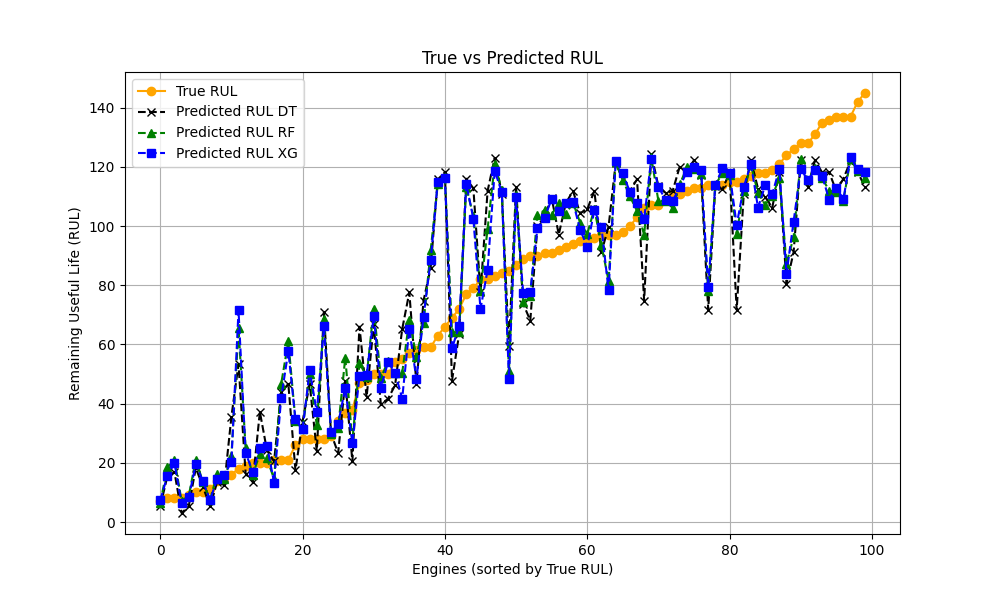
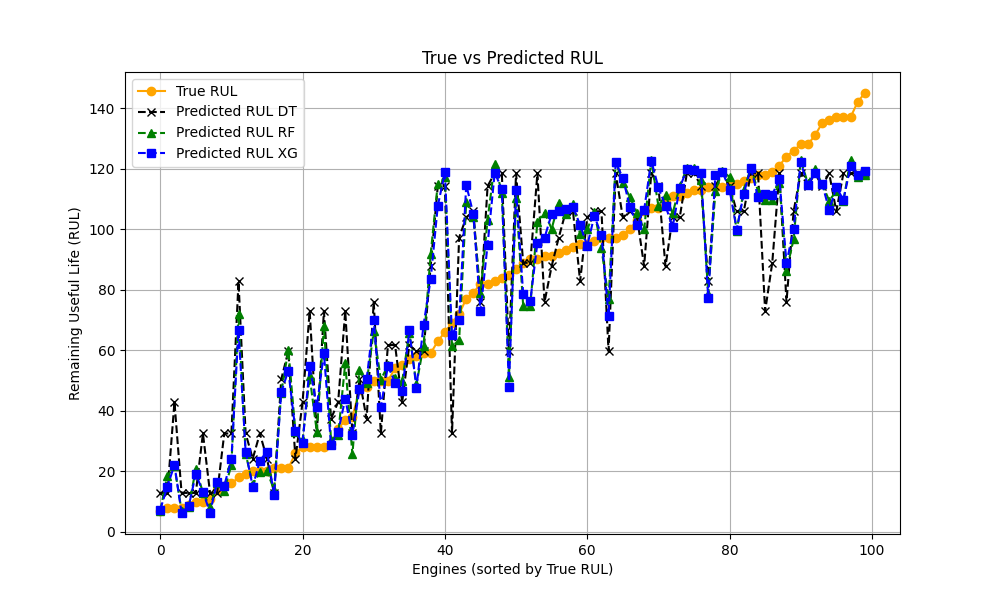
tuning aan gepast. de hyperparameters die gebruikt worden zijn nu de beste uit het tuning

diff --git a/Alle models.py b/Alle models.py
@@ -5,19 +5,14 @@ from sklearn.ensemble import RandomForestRegressor
 from sklearn.metrics import mean_squared_error, mean_absolute_error, r2_score
 from sklearn.model_selection import GridSearchCV
 from sklearn.model_selection import GridSearchCV, train_test_split
-
-
 from import_data import df_train, df_test
 import matplotlib.pyplot as plt
 import numpy as np
 import pandas as pd
 
-################
-
+####################
 # Data voorbereiding
-
-################
-
+####################
 
 df_train['max_cycle'] = df_train.groupby('engine')['cycle'].transform('max')
 df_train['RUL'] = df_train['max_cycle'] - df_train['cycle']
@@ -40,41 +35,46 @@ X_train = df_train[feature_cols]
 y_train = df_train['RUL']
 
 
+###############
+# Model tunning
+###############
 
-
-# Split into training and validation sets
 X_train, X_val, y_train, y_val = train_test_split(X_train, y_train, test_size=0.2, random_state=42)
-
-# --- Hyperparameter tuning ---
-
+tuning = False 
+if tuning == True:
 # Decision Tree
-dt_params = {'max_depth': [3, 5, 10, None]}
-dt_grid = GridSearchCV(DecisionTreeRegressor(), dt_params, cv=3, scoring='neg_mean_squared_error')
-dt_grid.fit(X_train, y_train)
-best_dt = dt_grid.best_estimator_
+    dt_params = {'max_depth': [3, 5, 10], 'min_samples_leaf': [1, 5, 10], 'max_leaf_nodes': [10, 20]}
+    dt_grid = GridSearchCV(DecisionTreeRegressor(), dt_params, cv=3, scoring='neg_mean_squared_error')
+    dt_grid.fit(X_train, y_train)
+    best_dt = dt_grid.best_estimator_
 
 # Random Forest
-rf_params = {'n_estimators': [50, 100], 'max_depth': [5, 10, None]}
-rf_grid = GridSearchCV(RandomForestRegressor(), rf_params, cv=3, scoring='neg_mean_squared_error')
-rf_grid.fit(X_train, y_train)
-best_rf = rf_grid.best_estimator_
+    rf_params = {'n_estimators': [50, 100], 'max_depth': [5, 10], 'min_samples_leaf': [1, 5, 10]}
+    rf_grid = GridSearchCV(RandomForestRegressor(), rf_params, cv=3, scoring='neg_mean_squared_error')
+    rf_grid.fit(X_train, y_train)
+    best_rf = rf_grid.best_estimator_
 
 # XGBoost
-xgb_params = {'n_estimators': [50, 100], 'max_depth': [3, 5, 10]}
-xgb_grid = GridSearchCV(XGBRegressor(), xgb_params, cv=3, scoring='neg_mean_squared_error')
-xgb_grid.fit(X_train, y_train)
-best_xgb = xgb_grid.best_estimator_
+    xgb_params = {'n_estimators': [50, 100], 'max_depth': [3, 6, 10], 'learning_rate': [0.01, 0.1, 0.2]}
+    xgb_grid = GridSearchCV(XGBRegressor(), xgb_params, cv=3, scoring='neg_mean_squared_error')
+    xgb_grid.fit(X_train, y_train)
+    best_xgb = xgb_grid.best_estimator_
 
-# --- Evaluation on validation set ---
-for model, name in zip([best_dt, best_rf, best_xgb], ['DT', 'RF', 'XG']):
-    y_pred = model.predict(X_val)
-    print(f"{name} - RMSE: {np.sqrt(mean_squared_error(y_val, y_pred)):.2f}, "
-          f"MAE: {mean_absolute_error(y_val, y_pred):.2f}, "
-          f"R²: {r2_score(y_val, y_pred):.2f}")
-    # hier de beste hyperparameters printen
+# Evaluation with validation data 
+    tuned_params = ['max_depth', 'n_estimators', 'max_leaf_nodes', 'min_samples_leaf', 'learning_rate']
+    #read the best hyperparameters from the grid search
+    for model, name in zip([best_dt, best_rf, best_xgb], ['DT', 'RF', 'XG']):
+        y_pred = model.predict(X_val)
+        params = model.get_params()
+        filtered_params = {k: v for k, v in params.items() if k in tuned_params}
+        print(f"{name} - Parameters: {filtered_params}")
+        print(f"{name} - RMSE: {np.sqrt(mean_squared_error(y_val, y_pred)):.2f}, "
+            f"MAE: {mean_absolute_error(y_val, y_pred):.2f}, "
+            f"R²: {r2_score(y_val, y_pred):.2f}")
 
-
-
+#####################
+# Running the models
+#####################
 
 true_rul = pd.read_csv(
     'CMAPSSData/RUL_FD001.txt',
@@ -85,37 +85,24 @@ df_test_last['RUL'] = true_rul.values.flatten()
 X_test = df_test_last[feature_cols]
 y_test = df_test_last['RUL']
 
-############
-
-# Models
-
-############
-
-# dit deel kan weg 
-
-# Single Decision Tree Regressor
-dt = DecisionTreeRegressor(max_depth=10, random_state=42)
+# Single Decision Tree Regressor, Random Forest Regressor, and XGBoost Regressor
+# take the best hyperparameters from the tuning step
+dt = DecisionTreeRegressor(max_depth=10, max_leaf_nodes=20, min_samples_leaf=1)
 dt.fit(X_train, y_train)
-
-
-# Radnom Forest Regressor
-rf = RandomForestRegressor(n_estimators=100, max_depth=10, random_state=42, min_samples_leaf=5, n_jobs = -1)
+rf = RandomForestRegressor(n_estimators=100, max_depth=10, min_samples_leaf=5, n_jobs = -1)
 rf.fit(X_train, y_train)
-
-# XGBoost Regressor
-xg = XGBRegressor(objective='reg:squarederror', n_estimators=50, learning_rate=0.1, max_depth=6,random_state=42)
+xg = XGBRegressor(objective='reg:squarederror', n_estimators=50, learning_rate=0.1, max_depth=6)
 xg_fit = xg.fit(X_train, y_train)
 
-# hier voor predict best_dt etc zetten om de beste hyperparameters te gebruiken
-dt_pred = dt.predict(X_test)
-rf_pred = rf.predict(X_test)
-xg_pred = xg_fit.predict(X_test)
+#add a bias if you want to ensure conservative predictions
+bias = 0.0
+dt_pred = dt.predict(X_test)+ bias
+rf_pred = rf.predict(X_test) +bias 
+xg_pred = xg_fit.predict(X_test) +bias
 
-###############
-
+#####################
 # Evaluatie modellen
-
-###############
+#####################
 rmse_dt = np.sqrt(mean_squared_error(y_test, dt_pred))
 mae_dt = mean_absolute_error(y_test, dt_pred)
 r2_dt = r2_score(y_test, dt_pred)
@@ -150,16 +137,3 @@ plt.legend()
 plt.grid()
 plt.savefig('comb_rul_prediction_plot.png')
 plt.show()
-
-param_grid = {
-    'max_depth': [3, 6, 10],
-    'n_estimators': [50, 100, 200],
-    'learning_rate': [0.01, 0.1, 0.2]
-}
-grid_search = GridSearchCV(XGBRegressor(), param_grid, cv=3, scoring='neg_mean_squared_error')
-grid_search.fit(X_train, y_train)
-# Print the best hyperparameters found by GridSearchCV
-print("Best hyperparameters found: ", grid_search.best_params_)
-
-# Print the best score (lowest RMSE or highest R² depending on the scoring)
-print("Best score (neg_mean_squared_error): ", grid_search.best_score_)
